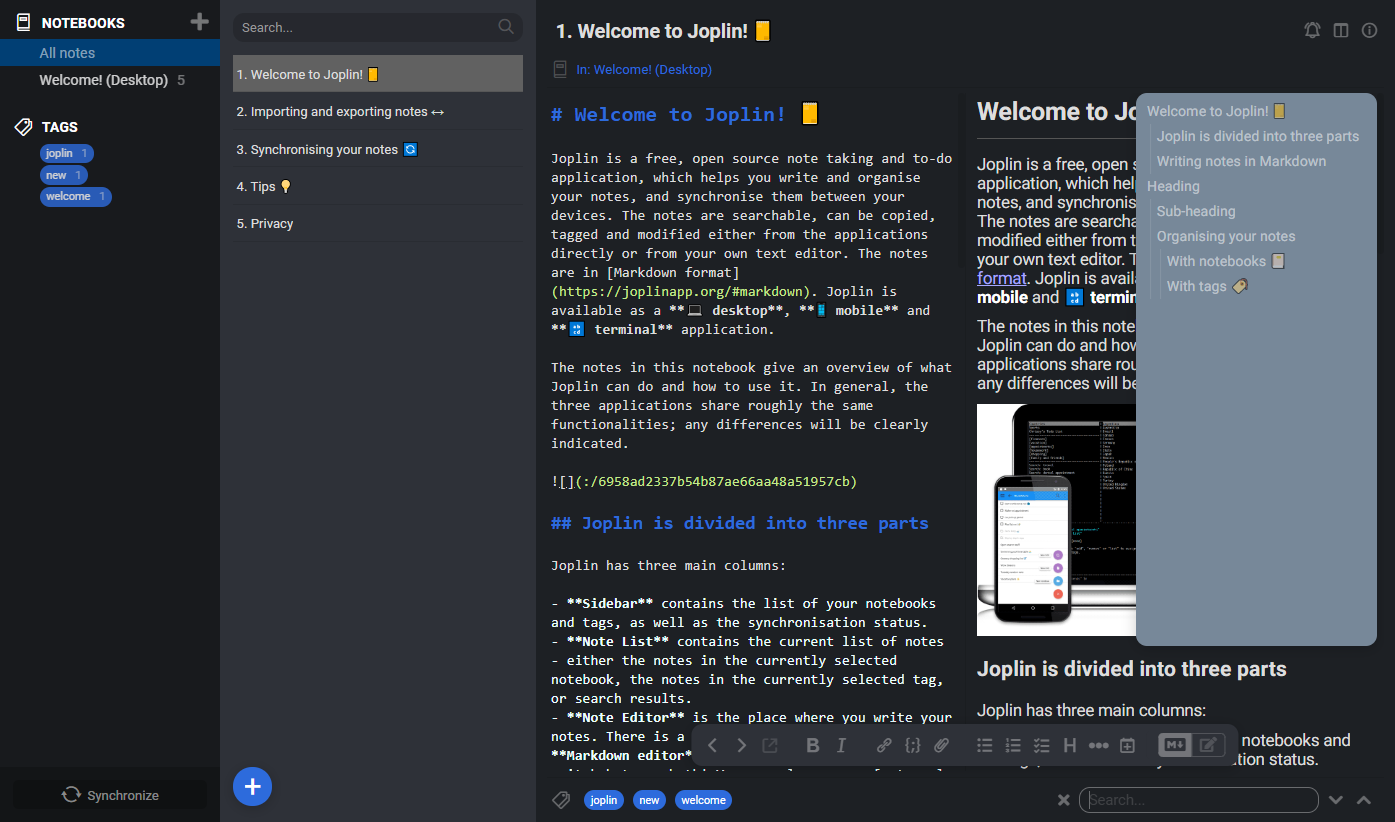
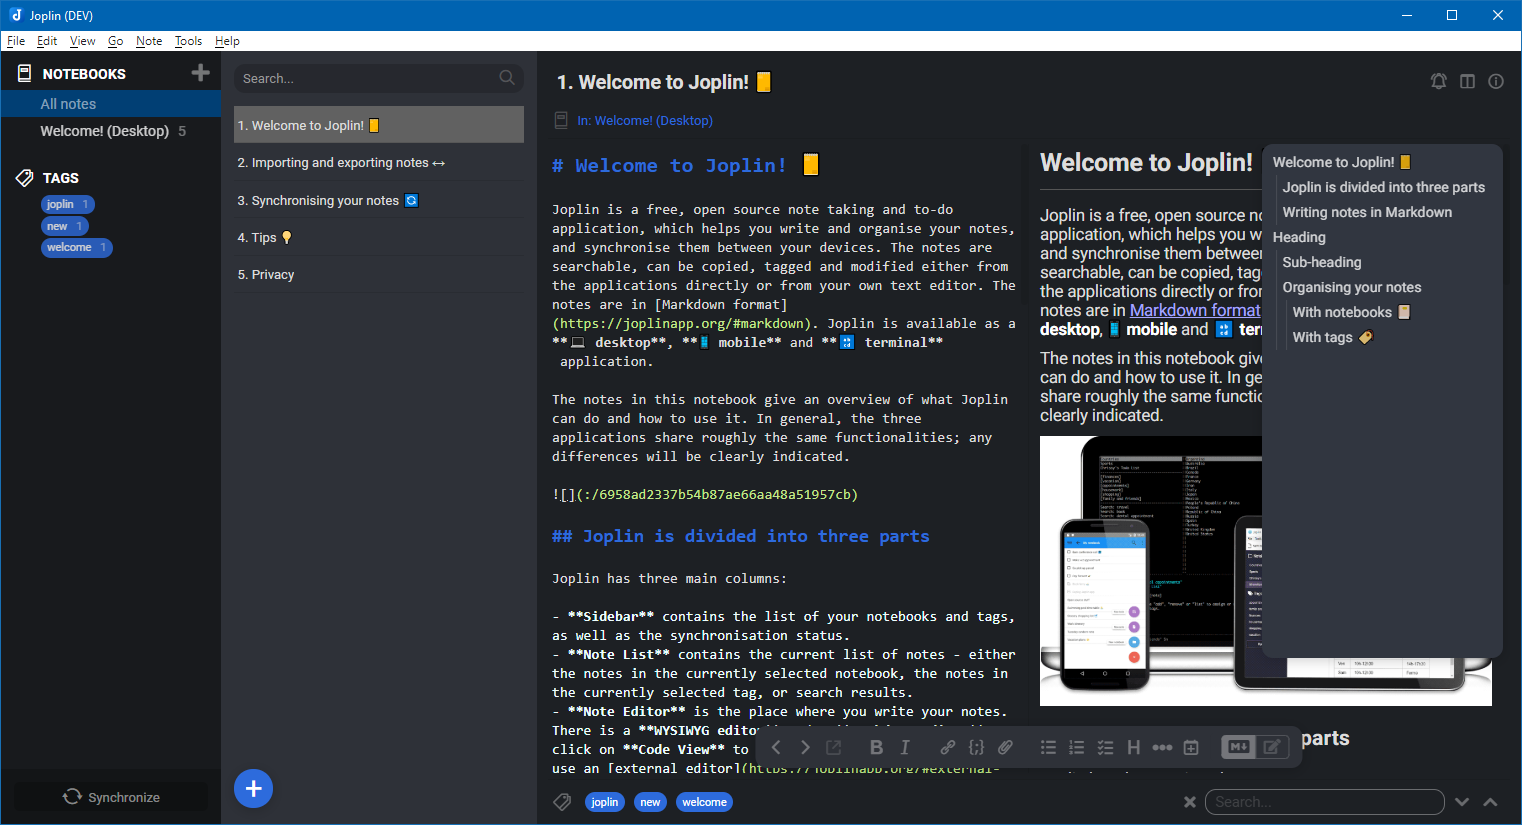
Improve look of TOC
Change color to the same as side-bar in light theme has.

diff --git a/theme/userstyle.css b/theme/userstyle.css
@@ -1,9 +1,14 @@
+/* JOPLIN WANAKA UI */
+
 /**************************************************************************************************
  *  VARIABLES
  *************************************************************************************************/
-
 html {
-  --floating-bg: lightslategrey;
+  /* side-bar background color from light theme */
+  --floating-bg: rgb(49, 54, 64);
+
+  --link-color: rgb(255, 255, 255);
+
   --overlay-dark1: rgba(0, 0, 0, 0.1);
   --overlay-dark2: rgba(0, 0, 0, 0.2);
   --overlay-dark5: rgba(0, 0, 0, 0.5);
@@ -17,7 +22,7 @@ html {
   --dialog-radius: 10px;
   --scroll-radius: 3px;
 
-  /* TWEAK: Show shadow on floating TOC */
+  /* TWEAK: Show/hide shadow on floating TOC */
   --shadow: 0 2px 12px 0 var(--overlay-dark2);
 }
 
@@ -90,7 +95,8 @@ nav.table-of-contents li {
   white-space: nowrap;
 }
 nav.table-of-contents li a {
-  color: var(--overlay-light5) !important;
+  color: var(--link-color) !important;
+  opacity: 0.8;
   padding: 5px;
 }
 nav.table-of-contents ul li ul li {

diff --git a/theme/userchrome.css b/theme/userchrome.css
@@ -1,3 +1,5 @@
+/* JOPLIN WANAKA UI */
+
 /**************************************************************************************************
  *  VARIABLES
  *************************************************************************************************/
@@ -172,7 +174,7 @@ a[Title="Tags"] + div > span {
 .rli-pluginColumn > span > div {
   right: -2px !important;
   width: 4px !important;
-  z-index: 10 !important;
+  z-index: 100 !important;
 }
 .rli-sideBarColumn > span > div:hover,
 .rli-sideBarColumn > span > div:active,
